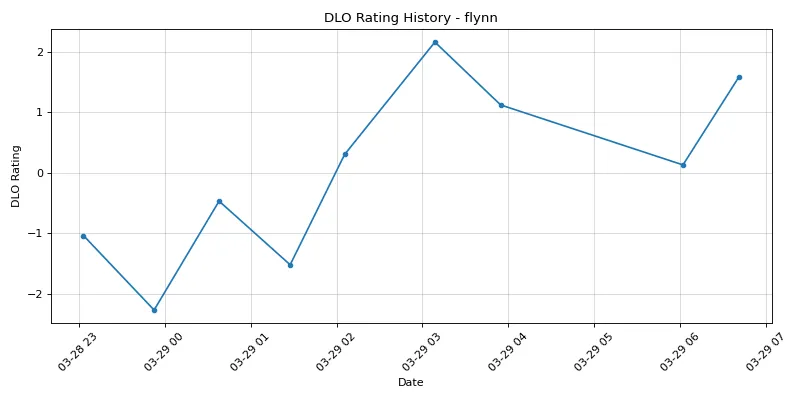
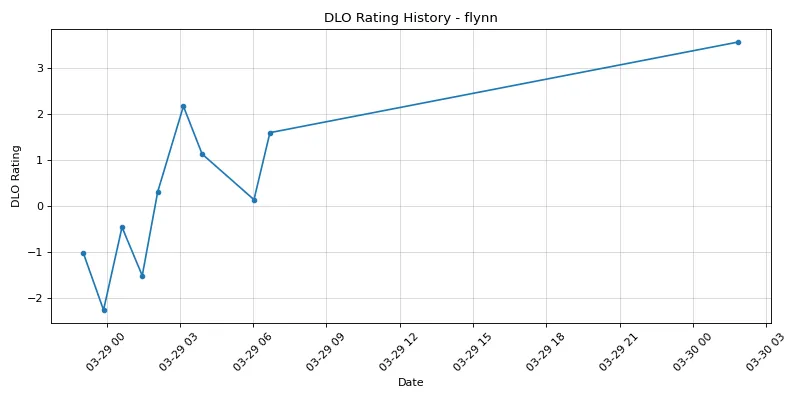
Auto-update: 2025-03-30 01:50:31

diff --git a/docs/index.html b/docs/index.html
@@ -53,7 +53,7 @@
             </tr>
         </thead>
         <tbody>
-            <tr><td>1</td><td><a href="player/76561198113365362.html">Rom</a></td><td>7.61</td><td>16</td></tr><tr><td>2</td><td><a href="player/76561198439522328.html">Scrubus</a></td><td>6.97</td><td>13</td></tr><tr><td>3</td><td><a href="player/76561199096225302.html">chereamie</a></td><td>5.31</td><td>5</td></tr><tr><td>4</td><td><a href="player/76561197991901288.html">Welsper</a></td><td>4.89</td><td>3</td></tr><tr><td>5</td><td><a href="player/76561198067145805.html">internetzspacezshipz</a></td><td>4.89</td><td>5</td></tr><tr><td>6</td><td><a href="player/76561199619179700.html">Austral</a></td><td>3.92</td><td>9</td></tr><tr><td>7</td><td><a href="player/76561198054330246.html">WzSnipes</a></td><td>3.82</td><td>8</td></tr><tr><td>8</td><td><a href="player/76561199109004727.html">Jacoda</a></td><td>3.56</td><td>2</td></tr><tr><td>9</td><td><a href="player/76561198188722486.html">Weeble Keneeble</a></td><td>3.41</td><td>2</td></tr><tr><td>10</td><td><a href="player/76561199813547421.html">Stern</a></td><td>3.19</td><td>4</td></tr><tr><td>11</td><td><a href="player/76561199074068434.html">Zabbix</a></td><td>3.16</td><td>2</td></tr><tr><td>12</td><td><a href="player/76561198153456000.html">Comedian</a></td><td>2.43</td><td>1</td></tr><tr><td>13</td><td><a href="player/76561199701048648.html">Fentanyl Ape</a></td><td>2.43</td><td>1</td></tr><tr><td>14</td><td><a href="player/76561198107440575.html">Gvazi</a></td><td>2.30</td><td>3</td></tr><tr><td>15</td><td><a href="player/76561198390895563.html">Black Bat A8T</a></td><td>2.22</td><td>6</td></tr><tr><td>16</td><td><a href="player/76561198895534238.html">Noek &#x27;Vessel&#x27; H.</a></td><td>2.06</td><td>3</td></tr><tr><td>17</td><td><a href="player/76561198405914826.html">Magic</a></td><td>2.04</td><td>3</td></tr><tr><td>18</td><td><a href="player/76561198988211104.html">dxb338</a></td><td>1.92</td><td>3</td></tr><tr><td>19</td><td><a href="player/76561198871018138.html">MXYFX-71400</a></td><td>1.89</td><td>1</td></tr><tr><td>20</td><td><a href="player/76561198018651039.html">Aurelia Lightpaw</a></td><td>1.85</td><td>1</td></tr><tr><td>21</td><td><a href="player/76561198012111956.html">KailasaHoles</a></td><td>1.85</td><td>1</td></tr><tr><td>22</td><td><a href="player/76561198062094692.html">Radosvik</a></td><td>1.85</td><td>1</td></tr><tr><td>23</td><td><a href="player/76561198092534377.html">Mav625</a></td><td>1.83</td><td>1</td></tr><tr><td>24</td><td><a href="player/76561198399462425.html">iriS-xe</a></td><td>1.82</td><td>9</td></tr><tr><td>25</td><td><a href="player/76561199209524660.html">bigterrorist</a></td><td>1.76</td><td>1</td></tr><tr><td>26</td><td><a href="player/76561198353755299.html">Daemoniaque</a></td><td>1.73</td><td>1</td></tr><tr><td>27</td><td><a href="player/76561198843598485.html">Cassie Chase</a></td><td>1.69</td><td>1</td></tr><tr><td>28</td><td><a href="player/76561199839182647.html">Soedem</a></td><td>1.69</td><td>1</td></tr><tr><td>29</td><td><a href="player/76561199439219048.html">workas</a></td><td>1.69</td><td>1</td></tr><tr><td>30</td><td><a href="player/76561199841083469.html">bennycarver</a></td><td>1.68</td><td>1</td></tr><tr><td>31</td><td><a href="player/76561198151744331.html">CosmicEradicator</a></td><td>1.68</td><td>1</td></tr><tr><td>32</td><td><a href="player/76561197965398272.html">JonBolds</a></td><td>1.68</td><td>1</td></tr><tr><td>33</td><td><a href="player/76561199479844941.html">Daggon</a></td><td>1.66</td><td>1</td></tr><tr><td>34</td><td><a href="player/76561198149681631.html">Quintobean</a></td><td>1.65</td><td>7</td></tr><tr><td>35</td><td><a href="player/76561198081378329.html">HELL CRINGE</a></td><td>1.64</td><td>6</td></tr><tr><td>36</td><td><a href="player/76561198203688599.html">HEAVEN BASED</a></td><td>1.63</td><td>1</td></tr><tr><td>37</td><td><a href="player/76561198118076747.html">Xenophon of Athens</a></td><td>1.63</td><td>1</td></tr><tr><td>38</td><td><a href="player/76561198072364306.html">BATTIE</a></td><td>1.62</td><td>1</td></tr><tr><td>39</td><td><a href="player/76561198324280078.html">flynn</a></td><td>1.59</td><td>9</td></tr><tr><td>40</td><td><a href="player/76561198799044855.html">Trojan_Shad0w</a></td><td>1.59</td><td>1</td></tr><tr><td>41</td><td><a href="player/76561199435784871.html">dashort1</a></td><td>1.58</td><td>1</td></tr><tr><td>42</td><td><a href="player/76561198061365582.html">LyricalKing</a></td><td>1.44</td><td>1</td></tr><tr><td>43</td><td><a href="player/76561198102689306.html">nova28</a></td><td>1.44</td><td>1</td></tr><tr><td>44</td><td><a href="player/76561198159764203.html">Cpt_Joe</a></td><td>1.42</td><td>1</td></tr><tr><td>45</td><td><a href="player/76561199238744504.html">Duke of Stars</a></td><td>1.39</td><td>6</td></tr><tr><td>46</td><td><a href="player/76561198947126591.html">SammyClassicStarfox</a></td><td>1.06</td><td>4</td></tr><tr><td>47</td><td><a href="player/76561198837013055.html">Jaspexx</a></td><td>0.96</td><td>4</td></tr><tr><td>48</td><td><a href="player/76561198250857768.html">Jakubian</a></td><td>0.95</td><td>1</td></tr><tr><td>49</td><td><a href="player/76561198430121736.html">teitokuwww</a></td><td>0.95</td><td>1</td></tr><tr><td>50</td><td><a href="player/76561198007984095.html">das</a></td><td>0.76</td><td>2</td></tr><tr><td>51</td><td><a href="player/76561198046325828.html">Kiroking</a></td><td>0.59</td><td>2</td></tr><tr><td>52</td><td><a href="player/76561199097135470.html">ocult</a></td><td>0.55</td><td>2</td></tr><tr><td>53</td><td><a href="player/76561198801434526.html">Jraamus</a></td><td>0.53</td><td>2</td></tr><tr><td>54</td><td><a href="player/76561198105386598.html">FreedomGR</a></td><td>0.51</td><td>2</td></tr><tr><td>55</td><td><a href="player/76561198100430451.html">Nick0</a></td><td>0.44</td><td>2</td></tr><tr><td>56</td><td><a href="player/76561197998511101.html">Hivegender</a></td><td>0.19</td><td>2</td></tr><tr><td>57</td><td><a href="player/76561198206866291.html">bonggyy</a></td><td>-0.20</td><td>7</td></tr><tr><td>58</td><td><a href="player/76561198052398418.html">_Puck_</a></td><td>-0.28</td><td>2</td></tr><tr><td>59</td><td><a href="player/76561198354645177.html">Solus</a></td><td>-0.31</td><td>3</td></tr><tr><td>60</td><td><a href="player/76561198089616341.html">hämis</a></td><td>-0.53</td><td>1</td></tr><tr><td>61</td><td><a href="player/76561198126182179.html">xxTHREExx</a></td><td>-0.53</td><td>1</td></tr><tr><td>62</td><td><a href="player/76561197997867197.html">Mann gegen Mann</a></td><td>-0.56</td><td>3</td></tr><tr><td>63</td><td><a href="player/76561198332158283.html">Lambooo</a></td><td>-0.92</td><td>1</td></tr><tr><td>64</td><td><a href="player/76561198140913834.html">SirPoopit</a></td><td>-0.94</td><td>1</td></tr><tr><td>65</td><td><a href="player/76561198010486795.html">QuizQuiz</a></td><td>-0.98</td><td>8</td></tr><tr><td>66</td><td><a href="player/76561197996747977.html">Captain Eban</a></td><td>-1.05</td><td>1</td></tr><tr><td>67</td><td><a href="player/76561198009272323.html">Explosive Megumin</a></td><td>-1.05</td><td>1</td></tr><tr><td>68</td><td><a href="player/76561198066312157.html">PieOfReckoning</a></td><td>-1.06</td><td>1</td></tr><tr><td>69</td><td><a href="player/76561198049445057.html">Skipper</a></td><td>-1.07</td><td>1</td></tr><tr><td>70</td><td><a href="player/76561198209008457.html">StabilWieNichts</a></td><td>-1.07</td><td>1</td></tr><tr><td>71</td><td><a href="player/76561198006884445.html">TheCheeseBandit</a></td><td>-1.07</td><td>1</td></tr><tr><td>72</td><td><a href="player/76561198950963392.html">_bell</a></td><td>-1.13</td><td>14</td></tr><tr><td>73</td><td><a href="player/76561198019779444.html">Gambit</a></td><td>-1.18</td><td>1</td></tr><tr><td>74</td><td><a href="player/76561198208086923.html">apathy</a></td><td>-1.19</td><td>1</td></tr><tr><td>75</td><td><a href="player/76561197993020664.html">MrChops</a></td><td>-1.20</td><td>1</td></tr><tr><td>76</td><td><a href="player/76561197986126034.html">bowana</a></td><td>-1.21</td><td>1</td></tr><tr><td>77</td><td><a href="player/76561197984709358.html">CosmicEradicator</a></td><td>-1.21</td><td>1</td></tr><tr><td>78</td><td><a href="player/76561198074285909.html">Cosmos</a></td><td>-1.21</td><td>1</td></tr><tr><td>79</td><td><a href="player/76561197960539146.html">Dimori</a></td><td>-1.21</td><td>1</td></tr><tr><td>80</td><td><a href="player/76561198361715088.html">Cosmic Coom</a></td><td>-1.25</td><td>1</td></tr><tr><td>81</td><td><a href="player/76561198193749733.html">noobmaster69</a></td><td>-1.34</td><td>1</td></tr><tr><td>82</td><td><a href="player/76561198063315803.html">Occams Hammer</a></td><td>-1.34</td><td>1</td></tr><tr><td>83</td><td><a href="player/76561198152855754.html">Orgiastic Erection</a></td><td>-1.34</td><td>1</td></tr><tr><td>84</td><td><a href="player/76561198981973612.html">Iona Cerana</a></td><td>-1.39</td><td>1</td></tr><tr><td>85</td><td><a href="player/76561197984015263.html">Kung Leonard den Barbariske</a></td><td>-1.50</td><td>1</td></tr><tr><td>86</td><td><a href="player/76561198041325974.html">Pinselmann</a></td><td>-1.50</td><td>1</td></tr><tr><td>87</td><td><a href="player/76561198130378644.html">puppy</a></td><td>-2.12</td><td>4</td></tr><tr><td>88</td><td><a href="player/76561198064533187.html">Adleid</a></td><td>-2.19</td><td>4</td></tr><tr><td>89</td><td><a href="player/76561198822264018.html">PBstar27</a></td><td>-2.50</td><td>2</td></tr><tr><td>90</td><td><a href="player/76561198097117564.html">Doggy Girl KikimoraθΔ</a></td><td>-2.63</td><td>2</td></tr><tr><td>91</td><td><a href="player/76561198864423220.html">HIMARS</a></td><td>-2.67</td><td>5</td></tr><tr><td>92</td><td><a href="player/76561198119011747.html">DerangedOctopus</a></td><td>-3.45</td><td>3</td></tr><tr><td>93</td><td><a href="player/76561198805239685.html">Theta03</a></td><td>-3.86</td><td>3</td></tr><tr><td>94</td><td><a href="player/76561197970497291.html">Henka</a></td><td>-4.14</td><td>1</td></tr><tr><td>95</td><td><a href="player/76561198042187721.html">Lemon</a></td><td>-4.88</td><td>4</td></tr>
+            <tr><td>1</td><td><a href="player/76561198113365362.html">Rom</a></td><td>7.61</td><td>16</td></tr><tr><td>2</td><td><a href="player/76561198439522328.html">Scrubus</a></td><td>6.97</td><td>13</td></tr><tr><td>3</td><td><a href="player/76561199813547421.html">Stern</a></td><td>5.39</td><td>5</td></tr><tr><td>4</td><td><a href="player/76561199096225302.html">chereamie</a></td><td>5.31</td><td>5</td></tr><tr><td>5</td><td><a href="player/76561197991901288.html">Welsper</a></td><td>4.89</td><td>3</td></tr><tr><td>6</td><td><a href="player/76561198067145805.html">internetzspacezshipz</a></td><td>4.89</td><td>5</td></tr><tr><td>7</td><td><a href="player/76561199619179700.html">Austral</a></td><td>3.92</td><td>9</td></tr><tr><td>8</td><td><a href="player/76561198054330246.html">WzSnipes</a></td><td>3.82</td><td>8</td></tr><tr><td>9</td><td><a href="player/76561198324280078.html">flynn</a></td><td>3.56</td><td>10</td></tr><tr><td>10</td><td><a href="player/76561199109004727.html">Jacoda</a></td><td>3.56</td><td>2</td></tr><tr><td>11</td><td><a href="player/76561198188722486.html">Weeble Keneeble</a></td><td>3.41</td><td>2</td></tr><tr><td>12</td><td><a href="player/76561199074068434.html">Zabbix</a></td><td>3.16</td><td>2</td></tr><tr><td>13</td><td><a href="player/76561198153456000.html">Comedian</a></td><td>2.43</td><td>1</td></tr><tr><td>14</td><td><a href="player/76561199701048648.html">Fentanyl Ape</a></td><td>2.43</td><td>1</td></tr><tr><td>15</td><td><a href="player/76561198107440575.html">Gvazi</a></td><td>2.30</td><td>3</td></tr><tr><td>16</td><td><a href="player/76561198390895563.html">Black Bat A8T</a></td><td>2.22</td><td>6</td></tr><tr><td>17</td><td><a href="player/76561198895534238.html">Noek &#x27;Vessel&#x27; H.</a></td><td>2.06</td><td>3</td></tr><tr><td>18</td><td><a href="player/76561198405914826.html">Magic</a></td><td>2.04</td><td>3</td></tr><tr><td>19</td><td><a href="player/76561198988211104.html">dxb338</a></td><td>1.92</td><td>3</td></tr><tr><td>20</td><td><a href="player/76561198871018138.html">MXYFX-71400</a></td><td>1.89</td><td>1</td></tr><tr><td>21</td><td><a href="player/76561198018651039.html">Aurelia Lightpaw</a></td><td>1.85</td><td>1</td></tr><tr><td>22</td><td><a href="player/76561198012111956.html">KailasaHoles</a></td><td>1.85</td><td>1</td></tr><tr><td>23</td><td><a href="player/76561198062094692.html">Radosvik</a></td><td>1.85</td><td>1</td></tr><tr><td>24</td><td><a href="player/76561198092534377.html">Mav625</a></td><td>1.83</td><td>1</td></tr><tr><td>25</td><td><a href="player/76561198399462425.html">iriS-xe</a></td><td>1.82</td><td>9</td></tr><tr><td>26</td><td><a href="player/76561199209524660.html">bigterrorist</a></td><td>1.76</td><td>1</td></tr><tr><td>27</td><td><a href="player/76561198353755299.html">Daemoniaque</a></td><td>1.73</td><td>1</td></tr><tr><td>28</td><td><a href="player/76561198843598485.html">Cassie Chase</a></td><td>1.69</td><td>1</td></tr><tr><td>29</td><td><a href="player/76561199839182647.html">Soedem</a></td><td>1.69</td><td>1</td></tr><tr><td>30</td><td><a href="player/76561199439219048.html">workas</a></td><td>1.69</td><td>1</td></tr><tr><td>31</td><td><a href="player/76561199841083469.html">bennycarver</a></td><td>1.68</td><td>1</td></tr><tr><td>32</td><td><a href="player/76561198151744331.html">CosmicEradicator</a></td><td>1.68</td><td>1</td></tr><tr><td>33</td><td><a href="player/76561197965398272.html">JonBolds</a></td><td>1.68</td><td>1</td></tr><tr><td>34</td><td><a href="player/76561199479844941.html">Daggon</a></td><td>1.66</td><td>1</td></tr><tr><td>35</td><td><a href="player/76561198149681631.html">Quintobean</a></td><td>1.65</td><td>7</td></tr><tr><td>36</td><td><a href="player/76561198081378329.html">HELL CRINGE</a></td><td>1.64</td><td>6</td></tr><tr><td>37</td><td><a href="player/76561198203688599.html">HEAVEN BASED</a></td><td>1.63</td><td>1</td></tr><tr><td>38</td><td><a href="player/76561198118076747.html">Xenophon of Athens</a></td><td>1.63</td><td>1</td></tr><tr><td>39</td><td><a href="player/76561198072364306.html">BATTIE</a></td><td>1.62</td><td>1</td></tr><tr><td>40</td><td><a href="player/76561198799044855.html">Trojan_Shad0w</a></td><td>1.59</td><td>1</td></tr><tr><td>41</td><td><a href="player/76561199435784871.html">dashort1</a></td><td>1.58</td><td>1</td></tr><tr><td>42</td><td><a href="player/76561198061365582.html">LyricalKing</a></td><td>1.44</td><td>1</td></tr><tr><td>43</td><td><a href="player/76561198102689306.html">nova28</a></td><td>1.44</td><td>1</td></tr><tr><td>44</td><td><a href="player/76561198159764203.html">Cpt_Joe</a></td><td>1.42</td><td>1</td></tr><tr><td>45</td><td><a href="player/76561199238744504.html">Duke of Stars</a></td><td>1.39</td><td>6</td></tr><tr><td>46</td><td><a href="player/76561198947126591.html">SammyClassicStarfox</a></td><td>1.06</td><td>4</td></tr><tr><td>47</td><td><a href="player/76561198837013055.html">Jaspexx</a></td><td>0.96</td><td>4</td></tr><tr><td>48</td><td><a href="player/76561198250857768.html">Jakubian</a></td><td>0.95</td><td>1</td></tr><tr><td>49</td><td><a href="player/76561198430121736.html">teitokuwww</a></td><td>0.95</td><td>1</td></tr><tr><td>50</td><td><a href="player/76561198007984095.html">das</a></td><td>0.76</td><td>2</td></tr><tr><td>51</td><td><a href="player/76561198046325828.html">Kiroking</a></td><td>0.59</td><td>2</td></tr><tr><td>52</td><td><a href="player/76561199097135470.html">ocult</a></td><td>0.55</td><td>2</td></tr><tr><td>53</td><td><a href="player/76561198801434526.html">Jraamus</a></td><td>0.53</td><td>2</td></tr><tr><td>54</td><td><a href="player/76561198105386598.html">FreedomGR</a></td><td>0.51</td><td>2</td></tr><tr><td>55</td><td><a href="player/76561198100430451.html">Nick0</a></td><td>0.44</td><td>2</td></tr><tr><td>56</td><td><a href="player/76561197998511101.html">Hivegender</a></td><td>0.19</td><td>2</td></tr><tr><td>57</td><td><a href="player/76561198206866291.html">bonggyy</a></td><td>-0.20</td><td>7</td></tr><tr><td>58</td><td><a href="player/76561198052398418.html">_Puck_</a></td><td>-0.28</td><td>2</td></tr><tr><td>59</td><td><a href="player/76561198354645177.html">Solus</a></td><td>-0.31</td><td>3</td></tr><tr><td>60</td><td><a href="player/76561198089616341.html">hämis</a></td><td>-0.53</td><td>1</td></tr><tr><td>61</td><td><a href="player/76561198126182179.html">xxTHREExx</a></td><td>-0.53</td><td>1</td></tr><tr><td>62</td><td><a href="player/76561197997867197.html">Mann gegen Mann</a></td><td>-0.56</td><td>3</td></tr><tr><td>63</td><td><a href="player/76561198332158283.html">Lambooo</a></td><td>-0.92</td><td>1</td></tr><tr><td>64</td><td><a href="player/76561198140913834.html">SirPoopit</a></td><td>-0.94</td><td>1</td></tr><tr><td>65</td><td><a href="player/76561198010486795.html">QuizQuiz</a></td><td>-0.98</td><td>8</td></tr><tr><td>66</td><td><a href="player/76561197996747977.html">Captain Eban</a></td><td>-1.05</td><td>1</td></tr><tr><td>67</td><td><a href="player/76561198009272323.html">Explosive Megumin</a></td><td>-1.05</td><td>1</td></tr><tr><td>68</td><td><a href="player/76561198066312157.html">PieOfReckoning</a></td><td>-1.06</td><td>1</td></tr><tr><td>69</td><td><a href="player/76561198049445057.html">Skipper</a></td><td>-1.07</td><td>1</td></tr><tr><td>70</td><td><a href="player/76561198209008457.html">StabilWieNichts</a></td><td>-1.07</td><td>1</td></tr><tr><td>71</td><td><a href="player/76561198006884445.html">TheCheeseBandit</a></td><td>-1.07</td><td>1</td></tr><tr><td>72</td><td><a href="player/76561198950963392.html">_bell</a></td><td>-1.13</td><td>14</td></tr><tr><td>73</td><td><a href="player/76561198019779444.html">Gambit</a></td><td>-1.18</td><td>1</td></tr><tr><td>74</td><td><a href="player/76561198208086923.html">apathy</a></td><td>-1.19</td><td>1</td></tr><tr><td>75</td><td><a href="player/76561197993020664.html">MrChops</a></td><td>-1.20</td><td>1</td></tr><tr><td>76</td><td><a href="player/76561197986126034.html">bowana</a></td><td>-1.21</td><td>1</td></tr><tr><td>77</td><td><a href="player/76561197984709358.html">CosmicEradicator</a></td><td>-1.21</td><td>1</td></tr><tr><td>78</td><td><a href="player/76561198074285909.html">Cosmos</a></td><td>-1.21</td><td>1</td></tr><tr><td>79</td><td><a href="player/76561197960539146.html">Dimori</a></td><td>-1.21</td><td>1</td></tr><tr><td>80</td><td><a href="player/76561198361715088.html">Cosmic Coom</a></td><td>-1.25</td><td>1</td></tr><tr><td>81</td><td><a href="player/76561198193749733.html">noobmaster69</a></td><td>-1.34</td><td>1</td></tr><tr><td>82</td><td><a href="player/76561198063315803.html">Occams Hammer</a></td><td>-1.34</td><td>1</td></tr><tr><td>83</td><td><a href="player/76561198152855754.html">Orgiastic Erection</a></td><td>-1.34</td><td>1</td></tr><tr><td>84</td><td><a href="player/76561198981973612.html">Iona Cerana</a></td><td>-1.39</td><td>1</td></tr><tr><td>85</td><td><a href="player/76561199122719914.html">Lost_Leviathan</a></td><td>-1.41</td><td>1</td></tr><tr><td>86</td><td><a href="player/76561198203580469.html">TheEngineeringTactician</a></td><td>-1.41</td><td>1</td></tr><tr><td>87</td><td><a href="player/76561197984015263.html">Kung Leonard den Barbariske</a></td><td>-1.50</td><td>1</td></tr><tr><td>88</td><td><a href="player/76561198041325974.html">Pinselmann</a></td><td>-1.50</td><td>1</td></tr><tr><td>89</td><td><a href="player/76561198130378644.html">puppy</a></td><td>-2.12</td><td>4</td></tr><tr><td>90</td><td><a href="player/76561198064533187.html">Adleid</a></td><td>-2.19</td><td>4</td></tr><tr><td>91</td><td><a href="player/76561198822264018.html">PBstar27</a></td><td>-2.50</td><td>2</td></tr><tr><td>92</td><td><a href="player/76561198097117564.html">Doggy Girl KikimoraθΔ</a></td><td>-2.63</td><td>2</td></tr><tr><td>93</td><td><a href="player/76561198864423220.html">HIMARS</a></td><td>-2.67</td><td>5</td></tr><tr><td>94</td><td><a href="player/76561198119011747.html">DerangedOctopus</a></td><td>-3.45</td><td>3</td></tr><tr><td>95</td><td><a href="player/76561198805239685.html">Theta03</a></td><td>-3.86</td><td>3</td></tr><tr><td>96</td><td><a href="player/76561197970497291.html">Henka</a></td><td>-4.14</td><td>1</td></tr><tr><td>97</td><td><a href="player/76561198042187721.html">Lemon</a></td><td>-4.88</td><td>4</td></tr>
         </tbody>
     </table>
 </body>

diff --git a/docs/player/76561198203580469.html b/docs/player/76561198203580469.html
@@ -4,7 +4,7 @@
 <head>
     <meta charset="UTF-8">
     <meta name="viewport" content="width=device-width, initial-scale=1.0">
-    <title>Stern - Player Stats</title>
+    <title>TheEngineeringTactician - Player Stats</title>
     <style>
         body { 
             font-family: monospace;
@@ -41,7 +41,7 @@
 <body>
     <div class="header">
         <img src="../dlo.webp" alt="Logo" width="150">
-        <h1>Stern - Player Statistics</h1>
+        <h1>TheEngineeringTactician - Player Statistics</h1>
         <a href="https://openskill.me/en/stable/manual.html">ranking system info</a> 
         | <a href="../index.html">Back to Leaderboard</a>
     </div>
@@ -49,27 +49,27 @@
     <table class="stats-table">
         <tr>
             <th>Steam Name</th>
-            <td>Stern</td>
+            <td>TheEngineeringTactician</td>
         </tr>
         <tr>
             <th>Player ID</th>
-            <td>76561199813547421</td>
+            <td>76561198203580469</td>
         </tr>
         <tr>
             <th>Wins/Losses</th>
-            <td>4 / 1 (80.0%)</td>
+            <td>0 / 1 (0.0%)</td>
         </tr>
         <tr>
             <th>Current DLO</th>
-            <td>5.39</td>
+            <td>-1.41</td>
         </tr>
         <tr>
             <th>Mu (μ)</th>
-            <td>29.01</td>
+            <td>23.08</td>
         </tr>
         <tr>
             <th>Sigma (σ)</th>
-            <td>7.87</td>
+            <td>8.17</td>
         </tr>
     </table>
 
@@ -84,12 +84,12 @@
             </tr>
         </thead>
         <tbody>
-            <tr><td>1</td><td><a href="76561198324280078.html">flynn</a></td><td>100.0%</td><td>3/3</td></tr><tr><td>2</td><td><a href="76561197998511101.html">Hivegender</a></td><td>100.0%</td><td>1/1</td></tr><tr><td>3</td><td><a href="76561198188722486.html">Weeble Keneeble</a></td><td>100.0%</td><td>1/1</td></tr>
+            
         </tbody>
     </table>
 
     <h2>DLO History</h2>
-    <img src="images/76561199813547421_history.webp" alt="DLO history graph">
+    <img src="images/76561198203580469_history.webp" alt="DLO history graph">
 </body>
 </html>
     

diff --git a/docs/player/76561199122719914.html b/docs/player/76561199122719914.html
@@ -4,7 +4,7 @@
 <head>
     <meta charset="UTF-8">
     <meta name="viewport" content="width=device-width, initial-scale=1.0">
-    <title>Stern - Player Stats</title>
+    <title>Lost_Leviathan - Player Stats</title>
     <style>
         body { 
             font-family: monospace;
@@ -41,7 +41,7 @@
 <body>
     <div class="header">
         <img src="../dlo.webp" alt="Logo" width="150">
-        <h1>Stern - Player Statistics</h1>
+        <h1>Lost_Leviathan - Player Statistics</h1>
         <a href="https://openskill.me/en/stable/manual.html">ranking system info</a> 
         | <a href="../index.html">Back to Leaderboard</a>
     </div>
@@ -49,27 +49,27 @@
     <table class="stats-table">
         <tr>
             <th>Steam Name</th>
-            <td>Stern</td>
+            <td>Lost_Leviathan</td>
         </tr>
         <tr>
             <th>Player ID</th>
-            <td>76561199813547421</td>
+            <td>76561199122719914</td>
         </tr>
         <tr>
             <th>Wins/Losses</th>
-            <td>4 / 1 (80.0%)</td>
+            <td>0 / 1 (0.0%)</td>
         </tr>
         <tr>
             <th>Current DLO</th>
-            <td>5.39</td>
+            <td>-1.41</td>
         </tr>
         <tr>
             <th>Mu (μ)</th>
-            <td>29.01</td>
+            <td>23.08</td>
         </tr>
         <tr>
             <th>Sigma (σ)</th>
-            <td>7.87</td>
+            <td>8.17</td>
         </tr>
     </table>
 
@@ -84,12 +84,12 @@
             </tr>
         </thead>
         <tbody>
-            <tr><td>1</td><td><a href="76561198324280078.html">flynn</a></td><td>100.0%</td><td>3/3</td></tr><tr><td>2</td><td><a href="76561197998511101.html">Hivegender</a></td><td>100.0%</td><td>1/1</td></tr><tr><td>3</td><td><a href="76561198188722486.html">Weeble Keneeble</a></td><td>100.0%</td><td>1/1</td></tr>
+            
         </tbody>
     </table>
 
     <h2>DLO History</h2>
-    <img src="images/76561199813547421_history.webp" alt="DLO history graph">
+    <img src="images/76561199122719914_history.webp" alt="DLO history graph">
 </body>
 </html>
     

diff --git a/docs/player/76561198324280078.html b/docs/player/76561198324280078.html
@@ -57,19 +57,19 @@
         </tr>
         <tr>
             <th>Wins/Losses</th>
-            <td>4 / 5 (44.4%)</td>
+            <td>5 / 5 (50.0%)</td>
         </tr>
         <tr>
             <th>Current DLO</th>
-            <td>1.59</td>
+            <td>3.56</td>
         </tr>
         <tr>
             <th>Mu (μ)</th>
-            <td>24.49</td>
+            <td>26.09</td>
         </tr>
         <tr>
             <th>Sigma (σ)</th>
-            <td>7.63</td>
+            <td>7.51</td>
         </tr>
     </table>
 
@@ -84,7 +84,7 @@
             </tr>
         </thead>
         <tbody>
-            <tr><td>1</td><td><a href="76561199813547421.html">Stern</a></td><td>100.0%</td><td>2/2</td></tr><tr><td>2</td><td><a href="76561199238744504.html">Duke of Stars</a></td><td>60.0%</td><td>3/5</td></tr><tr><td>3</td><td><a href="76561198439522328.html">Scrubus</a></td><td>50.0%</td><td>3/6</td></tr>
+            <tr><td>1</td><td><a href="76561199813547421.html">Stern</a></td><td>100.0%</td><td>3/3</td></tr><tr><td>2</td><td><a href="76561199238744504.html">Duke of Stars</a></td><td>60.0%</td><td>3/5</td></tr><tr><td>3</td><td><a href="76561198439522328.html">Scrubus</a></td><td>50.0%</td><td>3/6</td></tr>
         </tbody>
     </table>
 
